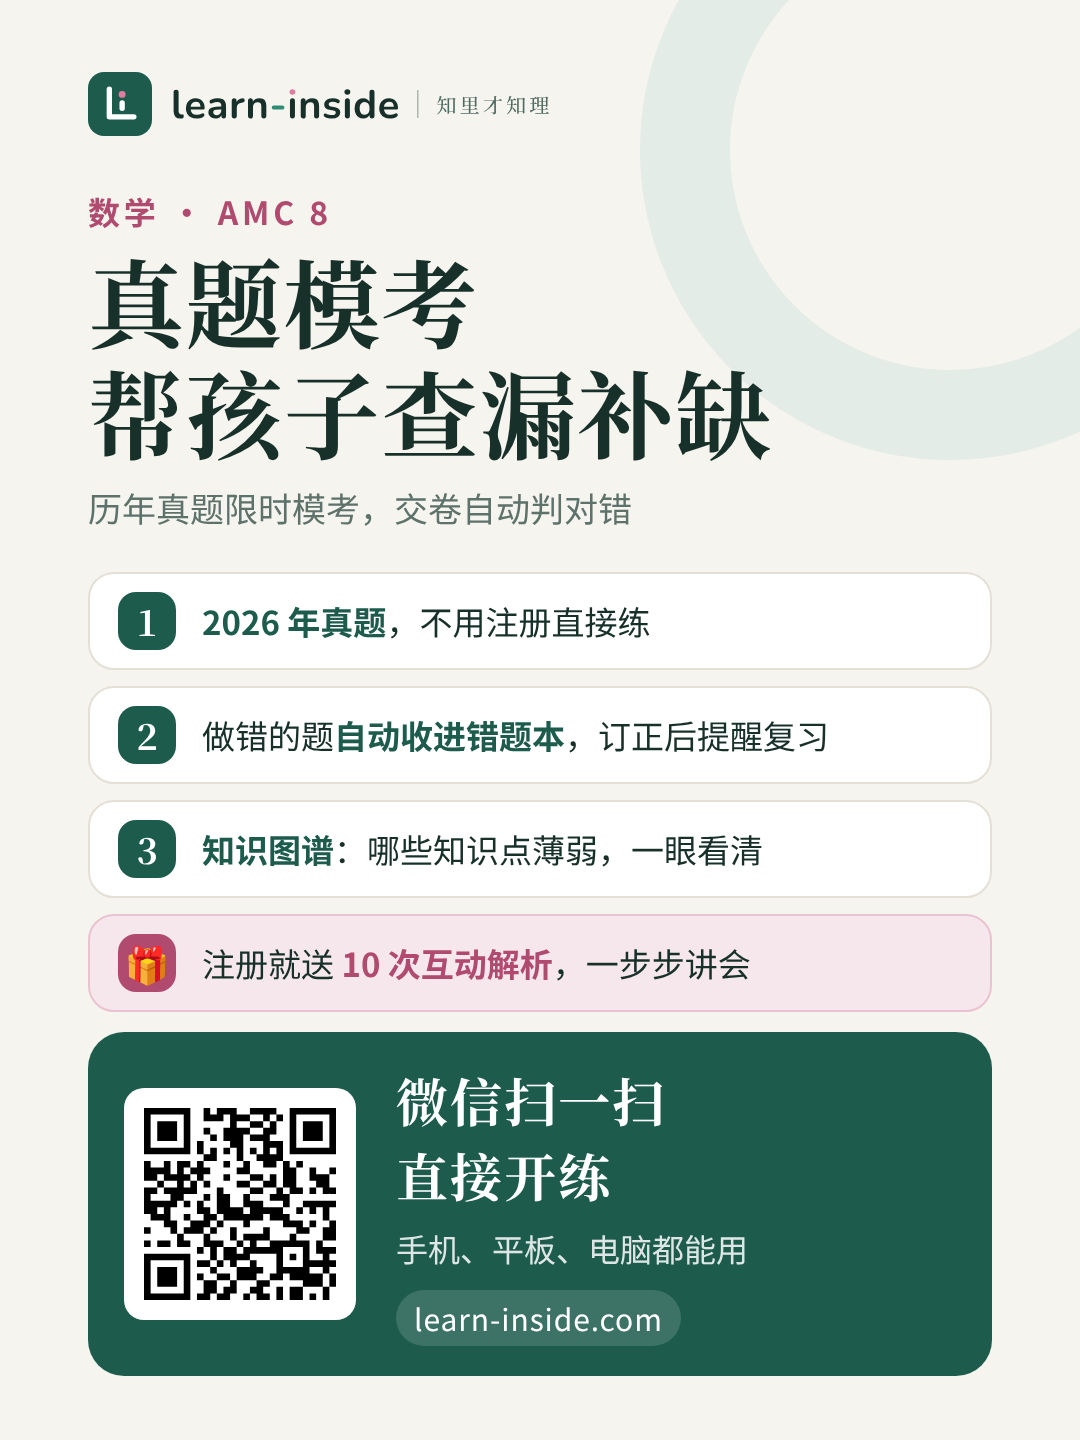
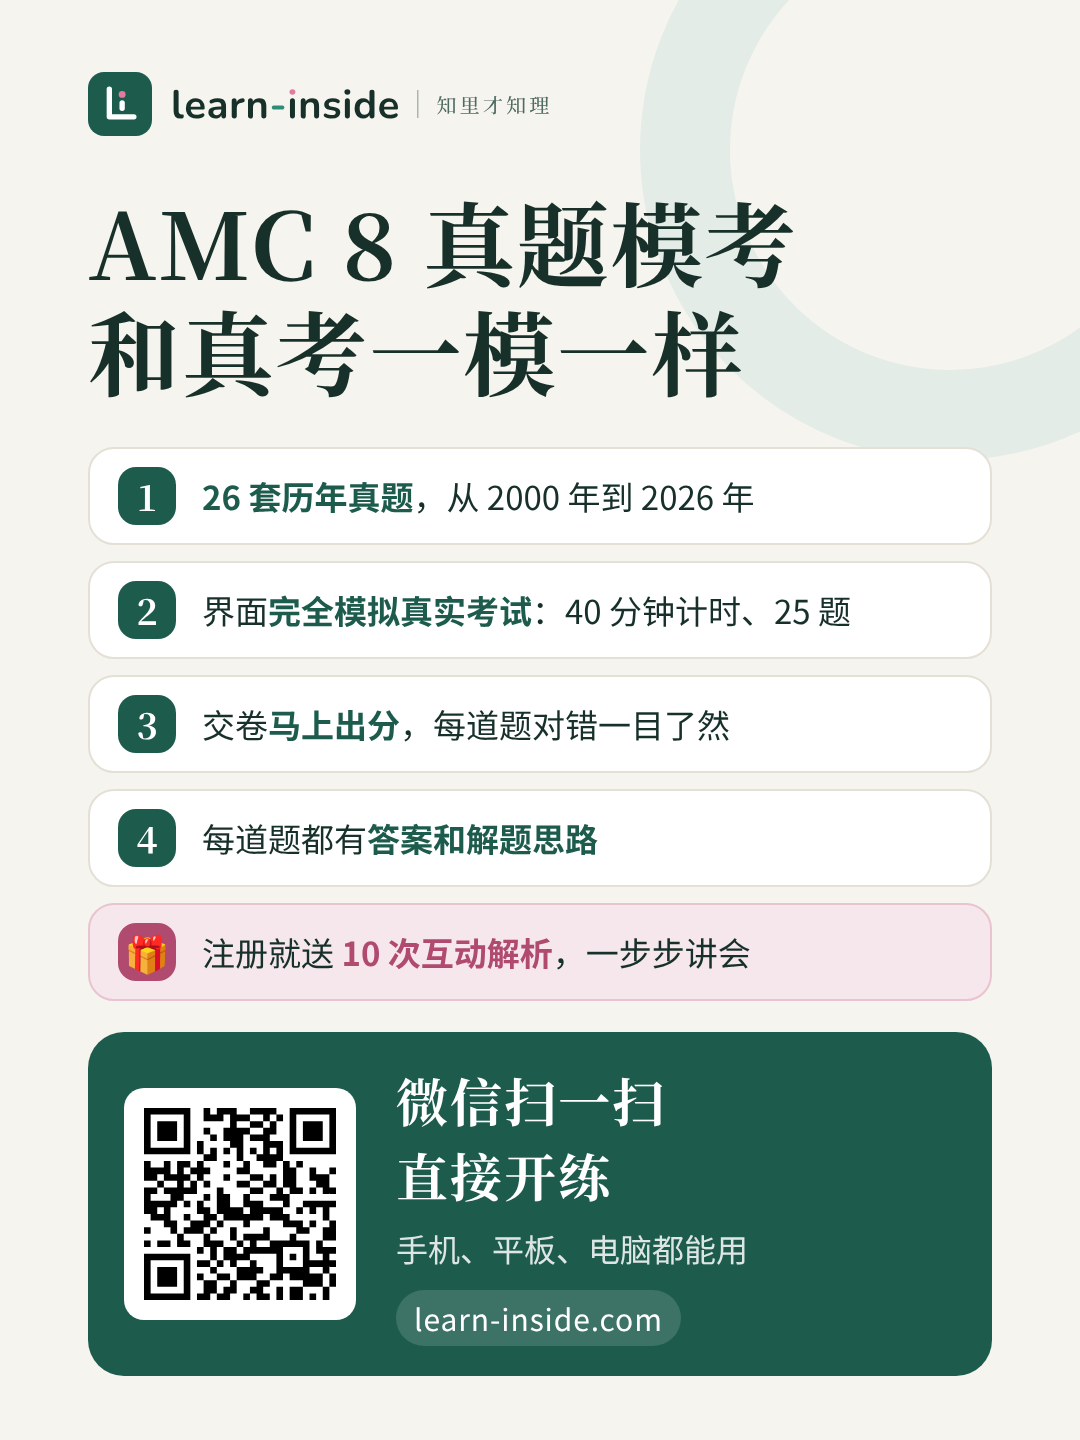
宣传图改文案：26 套历年真题、完全模拟真实考试、交卷马上出分、答案和解题思路
Claude-Session: https://claude.ai/code/session_01Y4gywDNRHQvSi6twQxnfma

diff --git a/assets/poster/share-poster.html b/assets/poster/share-poster.html
@@ -6,9 +6,9 @@ body{width:1080px;height:1440px;background:#F6F4EE;font-family:"Noto Sans CJK SC
 .wrap{position:relative;padding:72px 88px 0}
 .logo svg{height:64px;width:auto;display:block}
 .k{margin-top:52px;font-size:32px;letter-spacing:.12em;color:#B04A6F;font-weight:700}
-h1{font-family:ZS;font-weight:700;font-size:96px;line-height:1.16;margin-top:10px;letter-spacing:.02em}
+h1{font-family:ZS;font-weight:700;font-size:92px;line-height:1.18;margin-top:50px;letter-spacing:.02em}
 .sub{font-size:34px;color:#5E726C;margin-top:16px}
-ul{list-style:none;padding:0;margin-top:40px;display:grid;gap:16px}
+ul{list-style:none;padding:0;margin-top:44px;display:grid;gap:16px}
 li{display:flex;align-items:center;gap:26px;background:#fff;border:2px solid #E4E0D6;border-radius:26px;padding:18px 28px;font-size:33px;line-height:1.4}
 li i{flex:none;width:58px;height:58px;border-radius:18px;background:#1D5C4D;color:#fff;font-style:normal;font-family:ZS;font-weight:700;font-size:36px;display:grid;place-items:center}
 li b{color:#1D5C4D}
@@ -22,13 +22,12 @@ li.gift{background:#F6E7EC;border-color:#E9C3D1} li.gift i{background:#B04A6F} l
 </style></head><body><div class="bg"></div><div class="wrap">
 <div class="logo"><svg xmlns="http://www.w3.org/2000/svg" viewBox="0 0 461.3 64"><svg x="0.0" y="0.0" width="64.0" height="64.0" viewBox="0 0 120 120"><rect width="120" height="120" rx="30" fill="#1D5C4D"/><path d="M40 32V84H86" fill="none" stroke="#fff" stroke-width="10" stroke-linecap="round" stroke-linejoin="round"/><path d="M64 58V68" stroke="#fff" stroke-width="10" stroke-linecap="round"/><circle cx="64" cy="42" r="6.5" fill="#E07C9F"/></svg><svg x="83.0" y="17.0" width="228.0" height="30.0" viewBox="0 -73 570 75"><path d="M23.2 1Q14.9 1 10.7 -3.75Q6.5 -8.5 6.5 -17.7V-65Q6.5 -68.1 8.1 -69.7Q9.7 -71.3 12.7 -71.3Q15.7 -71.3 17.35 -69.7Q19 -68.1 19 -65V-18.3Q19 -13.7 20.95 -11.5Q22.9 -9.3 26.5 -9.3Q27.3 -9.3 28 -9.35Q28.7 -9.4 29.4 -9.5Q30.8 -9.7 31.3 -8.75Q31.8 -7.8 31.8 -4.9Q31.8 -2.4 30.8 -1Q29.8 0.4 27.5 0.7Q26.5 0.8 25.4 0.9Q24.3 1 23.2 1Z M64 1Q55.7 1 49.7 -2.1Q43.7 -5.2 40.45 -10.9Q37.2 -16.6 37.2 -24.4Q37.2 -32 40.35 -37.7Q43.5 -43.4 49.05 -46.65Q54.6 -49.9 61.7 -49.9Q66.9 -49.9 71.05 -48.2Q75.2 -46.5 78.15 -43.3Q81.1 -40.1 82.65 -35.55Q84.2 -31 84.2 -25.3Q84.2 -23.5 82.95 -22.55Q81.7 -21.6 79.4 -21.6H47.3V-28.8H75.4L73.8 -27.3Q73.8 -31.9 72.45 -35Q71.1 -38.1 68.55 -39.75Q66 -41.4 62.2 -41.4Q58 -41.4 55.05 -39.45Q52.1 -37.5 50.55 -33.95Q49 -30.4 49 -25.5V-24.8Q49 -16.6 52.85 -12.55Q56.7 -8.5 64.2 -8.5Q66.8 -8.5 70.05 -9.15Q73.3 -9.8 76.2 -11.4Q78.3 -12.6 79.9 -12.45Q81.5 -12.3 82.45 -11.3Q83.4 -10.3 83.6 -8.85Q83.8 -7.4 83.05 -5.9Q82.3 -4.4 80.5 -3.3Q77 -1.1 72.45 -0.05Q67.9 1 64 1Z M111.7 1Q106.4 1 102.25 -1.05Q98.1 -3.1 95.75 -6.6Q93.4 -10.1 93.4 -14.5Q93.4 -19.9 96.2 -23.05Q99 -26.2 105.3 -27.6Q111.6 -29 122.2 -29H127.2V-21.8H122.3Q116.1 -21.8 112.4 -21.2Q108.7 -20.6 107.15 -19.15Q105.6 -17.7 105.6 -15.1Q105.6 -11.8 107.9 -9.7Q110.2 -7.6 114.3 -7.6Q117.6 -7.6 120.15 -9.15Q122.7 -10.7 124.2 -13.4Q125.7 -16.1 125.7 -19.6V-31.1Q125.7 -36.1 123.5 -38.3Q121.3 -40.5 116.1 -40.5Q113.2 -40.5 109.85 -39.8Q106.5 -39.1 102.8 -37.4Q100.9 -36.5 99.45 -36.9Q98 -37.3 97.2 -38.55Q96.4 -39.8 96.4 -41.3Q96.4 -42.8 97.2 -44.25Q98 -45.7 99.9 -46.4Q104.5 -48.3 108.75 -49.1Q113 -49.9 116.5 -49.9Q123.7 -49.9 128.35 -47.7Q133 -45.5 135.3 -41.05Q137.6 -36.6 137.6 -29.6V-5.6Q137.6 -2.5 136.1 -0.85Q134.6 0.8 131.8 0.8Q129 0.8 127.45 -0.85Q125.9 -2.5 125.9 -5.6V-10.4H126.7Q126 -6.9 123.95 -4.35Q121.9 -1.8 118.8 -0.4Q115.7 1 111.7 1Z M158.2 0.8Q155.1 0.8 153.45 -0.85Q151.8 -2.5 151.8 -5.6V-43.4Q151.8 -46.5 153.4 -48.1Q155 -49.7 157.9 -49.7Q160.8 -49.7 162.4 -48.1Q164 -46.5 164 -43.4V-37.1H163Q164.4 -43.1 168.5 -46.2Q172.6 -49.3 179.4 -49.9Q181.5 -50.1 182.75 -48.85Q184 -47.6 184.2 -45Q184.4 -42.5 183.05 -40.95Q181.7 -39.4 179 -39.1L176.8 -38.9Q170.7 -38.3 167.6 -35.15Q164.5 -32 164.5 -26.3V-5.6Q164.5 -2.5 162.9 -0.85Q161.3 0.8 158.2 0.8Z M198.7 0.8Q195.7 0.8 194.1 -0.85Q192.5 -2.5 192.5 -5.6V-43.4Q192.5 -46.5 194.1 -48.1Q195.7 -49.7 198.6 -49.7Q201.5 -49.7 203.1 -48.1Q204.7 -46.5 204.7 -43.4V-36.6L203.6 -39.1Q205.8 -44.4 210.45 -47.15Q215.1 -49.9 221 -49.9Q226.9 -49.9 230.7 -47.7Q234.5 -45.5 236.4 -41.05Q238.3 -36.6 238.3 -29.8V-5.6Q238.3 -2.5 236.7 -0.85Q235.1 0.8 232.1 0.8Q229.1 0.8 227.45 -0.85Q225.8 -2.5 225.8 -5.6V-29.2Q225.8 -34.9 223.65 -37.5Q221.5 -40.1 217 -40.1Q211.5 -40.1 208.25 -36.65Q205 -33.2 205 -27.5V-5.6Q205 0.8 198.7 0.8Z M303.6 0.7Q300.6 0.7 299 -1.1Q297.4 -2.9 297.4 -6.1V-42.8Q297.4 -46.1 299 -47.85Q300.6 -49.6 303.6 -49.6Q306.6 -49.6 308.25 -47.85Q309.9 -46.1 309.9 -42.8V-6.1Q309.9 -2.9 308.3 -1.1Q306.7 0.7 303.6 0.7Z M330.6 0.8Q327.6 0.8 326 -0.85Q324.4 -2.5 324.4 -5.6V-43.4Q324.4 -46.5 326 -48.1Q327.6 -49.7 330.5 -49.7Q333.4 -49.7 335 -48.1Q336.6 -46.5 336.6 -43.4V-36.6L335.5 -39.1Q337.7 -44.4 342.35 -47.15Q347 -49.9 352.9 -49.9Q358.8 -49.9 362.6 -47.7Q366.4 -45.5 368.3 -41.05Q370.2 -36.6 370.2 -29.8V-5.6Q370.2 -2.5 368.6 -0.85Q367 0.8 364 0.8Q361 0.8 359.35 -0.85Q357.7 -2.5 357.7 -5.6V-29.2Q357.7 -34.9 355.55 -37.5Q353.4 -40.1 348.9 -40.1Q343.4 -40.1 340.15 -36.65Q336.9 -33.2 336.9 -27.5V-5.6Q336.9 0.8 330.6 0.8Z M402.3 1Q398 1 393.2 0.1Q388.4 -0.8 384.6 -3Q383 -4 382.35 -5.35Q381.7 -6.7 381.85 -8.05Q382 -9.4 382.85 -10.4Q383.7 -11.4 385.05 -11.7Q386.4 -12 388 -11.2Q392 -9.3 395.5 -8.55Q399 -7.8 402.4 -7.8Q407.2 -7.8 409.55 -9.45Q411.9 -11.1 411.9 -13.8Q411.9 -16.1 410.35 -17.35Q408.8 -18.6 405.7 -19.2L395.7 -21.1Q389.5 -22.3 386.25 -25.65Q383 -29 383 -34.3Q383 -39.1 385.65 -42.6Q388.3 -46.1 393 -48Q397.7 -49.9 403.8 -49.9Q408.2 -49.9 412.05 -48.95Q415.9 -48 419.5 -46Q421 -45.2 421.55 -43.9Q422.1 -42.6 421.8 -41.25Q421.5 -39.9 420.6 -38.85Q419.7 -37.8 418.35 -37.55Q417 -37.3 415.3 -38.1Q412.2 -39.7 409.35 -40.4Q406.5 -41.1 403.9 -41.1Q399 -41.1 396.65 -39.4Q394.3 -37.7 394.3 -34.9Q394.3 -32.8 395.7 -31.4Q397.1 -30 400 -29.5L410 -27.6Q416.5 -26.4 419.85 -23.2Q423.2 -20 423.2 -14.6Q423.2 -7.3 417.5 -3.15Q411.8 1 402.3 1Z M440.9 0.7Q437.9 0.7 436.3 -1.1Q434.7 -2.9 434.7 -6.1V-42.8Q434.7 -46.1 436.3 -47.85Q437.9 -49.6 440.9 -49.6Q443.9 -49.6 445.55 -47.85Q447.2 -46.1 447.2 -42.8V-6.1Q447.2 -2.9 445.6 -1.1Q444 0.7 440.9 0.7Z M480.5 1Q474.1 1 469.25 -2.1Q464.4 -5.2 461.7 -10.95Q459 -16.7 459 -24.5Q459 -32.4 461.7 -38.05Q464.4 -43.7 469.25 -46.8Q474.1 -49.9 480.5 -49.9Q486.6 -49.9 491.15 -46.9Q495.7 -43.9 497.3 -39H496.2V-65Q496.2 -68.1 497.8 -69.7Q499.4 -71.3 502.4 -71.3Q505.4 -71.3 507.05 -69.7Q508.7 -68.1 508.7 -65V-5.6Q508.7 -2.5 507.1 -0.85Q505.5 0.8 502.5 0.8Q499.5 0.8 497.9 -0.85Q496.3 -2.5 496.3 -5.6V-13.4L497.4 -10.4Q495.9 -5.2 491.3 -2.1Q486.7 1 480.5 1ZM484 -8.5Q487.7 -8.5 490.5 -10.3Q493.3 -12.1 494.85 -15.65Q496.4 -19.2 496.4 -24.5Q496.4 -32.5 493 -36.45Q489.6 -40.4 484 -40.4Q480.3 -40.4 477.5 -38.65Q474.7 -36.9 473.15 -33.35Q471.6 -29.8 471.6 -24.5Q471.6 -16.6 475 -12.55Q478.4 -8.5 484 -8.5Z M547.3 1Q539 1 533 -2.1Q527 -5.2 523.75 -10.9Q520.5 -16.6 520.5 -24.4Q520.5 -32 523.65 -37.7Q526.8 -43.4 532.35 -46.65Q537.9 -49.9 545 -49.9Q550.2 -49.9 554.35 -48.2Q558.5 -46.5 561.45 -43.3Q564.4 -40.1 565.95 -35.55Q567.5 -31 567.5 -25.3Q567.5 -23.5 566.25 -22.55Q565 -21.6 562.7 -21.6H530.6V-28.8H558.7L557.1 -27.3Q557.1 -31.9 555.75 -35Q554.4 -38.1 551.85 -39.75Q549.3 -41.4 545.5 -41.4Q541.3 -41.4 538.35 -39.45Q535.4 -37.5 533.85 -33.95Q532.3 -30.4 532.3 -25.5V-24.8Q532.3 -16.6 536.15 -12.55Q540 -8.5 547.5 -8.5Q550.1 -8.5 553.35 -9.15Q556.6 -9.8 559.5 -11.4Q561.6 -12.6 563.2 -12.45Q564.8 -12.3 565.75 -11.3Q566.7 -10.3 566.9 -8.85Q567.1 -7.4 566.35 -5.9Q565.6 -4.4 563.8 -3.3Q560.3 -1.1 555.75 -0.05Q551.2 1 547.3 1Z M440.9 -58.9Q437.4 -58.9 435.45 -60.65Q433.5 -62.4 433.5 -65.5Q433.5 -68.7 435.45 -70.4Q437.4 -72.1 440.9 -72.1Q444.5 -72.1 446.4 -70.4Q448.3 -68.7 448.3 -65.5Q448.3 -62.4 446.4 -60.65Q444.5 -58.9 440.9 -58.9Z" fill="#18302A"/><path d="M257.1 -21.8Q254.9 -21.8 253.45 -23.25Q252 -24.7 252 -26.8Q252 -29 253.45 -30.4Q254.9 -31.8 257.1 -31.8H278.4Q280.5 -31.8 281.95 -30.4Q283.4 -29 283.4 -26.8Q283.4 -24.7 281.95 -23.25Q280.5 -21.8 278.4 -21.8Z" fill="#2E8B74"/><path d="M303.6 -58.9Q300.1 -58.9 298.15 -60.65Q296.2 -62.4 296.2 -65.5Q296.2 -68.7 298.15 -70.4Q300.1 -72.1 303.6 -72.1Q307.2 -72.1 309.1 -70.4Q311 -68.7 311 -65.5Q311 -62.4 309.1 -60.65Q307.2 -58.9 303.6 -58.9Z" fill="#E07C9F"/></svg><rect x="329.0" y="18.0" width="1.5" height="28" fill="#4E6A62" opacity=".45"/><svg x="348.5" y="23.2" width="112.8" height="20.0" viewBox="0 -88.0 564.0 100.0"><path d="M15.5 -66.2H36.7L41.8 -72.4Q41.8 -72.4 43.3 -71.25Q44.8 -70.1 47 -68.35Q49.2 -66.6 51 -64.9Q50.8 -63.3 48.4 -63.3H13.7ZM4.1 -41.5H39.7L44.6 -47.9Q44.6 -47.9 45.55 -47.15Q46.5 -46.4 47.95 -45.25Q49.4 -44.1 50.95 -42.75Q52.5 -41.4 53.8 -40.1Q53.4 -38.5 51.1 -38.5H4.9ZM24.7 -66.2H32.5V-46.8Q32.5 -41.6 31.95 -35.8Q31.4 -30 29.85 -24.05Q28.3 -18.1 25.3 -12.4Q22.3 -6.7 17.3 -1.5Q12.3 3.7 4.8 8.1L3.6 6.8Q10.5 0.7 14.7 -5.9Q18.9 -12.5 21.05 -19.4Q23.2 -26.3 23.95 -33.25Q24.7 -40.2 24.7 -46.7ZM16.3 -83.9 28.3 -80.8Q28 -79.8 27.1 -79.2Q26.2 -78.6 24.6 -78.6Q21.4 -68.7 16.5 -60.6Q11.6 -52.5 5.3 -47L3.9 -47.9Q6.7 -52.3 9.1 -58.1Q11.5 -63.9 13.4 -70.5Q15.3 -77.1 16.3 -83.9ZM28.8 -28.2Q35.8 -25.2 40.15 -21.9Q44.5 -18.6 46.6 -15.4Q48.7 -12.2 49.15 -9.6Q49.6 -7 48.75 -5.35Q47.9 -3.7 46.15 -3.45Q44.4 -3.2 42.3 -4.7Q41.4 -8.4 38.95 -12.5Q36.5 -16.6 33.5 -20.5Q30.5 -24.4 27.7 -27.4ZM59.2 -7.7H87.8V-4.8H59.2ZM83.5 -70.9H82.5L86.8 -75.8L95.8 -68.6Q95.3 -68 94.2 -67.45Q93.1 -66.9 91.6 -66.6V0.6Q91.5 1 90.4 1.65Q89.3 2.3 87.75 2.8Q86.2 3.3 84.7 3.3H83.5ZM55.2 -70.9V-74.8L63.6 -70.9H88.1V-68H63.1V1.9Q63.1 2.3 62.25 3.05Q61.4 3.8 59.9 4.3Q58.4 4.8 56.5 4.8H55.2Z M119.9 1.4H196L201.7 -5.7Q201.7 -5.7 202.75 -4.9Q203.8 -4.1 205.5 -2.8Q207.2 -1.5 208.95 -0.05Q210.7 1.4 212.3 2.8Q211.9 4.3 209.4 4.3H120.8ZM128.8 -19.6H188.9L194.4 -26.6Q194.4 -26.6 195.45 -25.8Q196.5 -25 198.1 -23.75Q199.7 -22.5 201.4 -21.05Q203.1 -19.6 204.6 -18.3Q204.5 -17.5 203.75 -17.1Q203 -16.7 201.9 -16.7H129.6ZM191.7 -76.9H190.7L195 -81.7L204.2 -74.6Q203.7 -74 202.6 -73.45Q201.5 -72.9 200 -72.6V-32.6Q200 -32.3 198.8 -31.7Q197.6 -31.1 196.05 -30.6Q194.5 -30.1 193 -30.1H191.7ZM132 -76.9V-80.8L140.9 -76.9H195.3V-74.1H140.2V-31.2Q140.2 -30.8 139.2 -30.1Q138.2 -29.4 136.65 -28.9Q135.1 -28.4 133.3 -28.4H132ZM134.9 -57.7H195.3V-54.8H134.9ZM134.9 -38.3H195.3V-35.5H134.9ZM161.6 -76.7H170V3H161.6Z M294 -60.8Q288.8 -49.1 280.3 -38.3Q271.8 -27.5 260.7 -18.5Q249.6 -9.5 236.2 -2.9L235.1 -4.3Q243.4 -9.6 250.9 -16.4Q258.4 -23.2 264.75 -30.85Q271.1 -38.5 276.1 -46.55Q281.1 -54.6 284.4 -62.4H294ZM300.8 -82.7Q300.7 -81.7 299.85 -80.95Q299 -80.2 297.2 -80V-3.1Q297.2 0.1 296.35 2.45Q295.5 4.8 292.75 6.3Q290 7.8 284.2 8.3Q283.9 6.3 283.35 4.75Q282.8 3.2 281.6 2.2Q280.3 1.1 278.1 0.3Q275.9 -0.5 271.9 -1V-2.6Q271.9 -2.6 273.75 -2.45Q275.6 -2.3 278.1 -2.1Q280.6 -1.9 282.9 -1.8Q285.2 -1.7 286 -1.7Q287.5 -1.7 288.05 -2.2Q288.6 -2.7 288.6 -3.8V-84ZM318.1 -70.2Q318.1 -70.2 319.05 -69.35Q320 -68.5 321.6 -67.15Q323.2 -65.8 324.85 -64.3Q326.5 -62.8 327.8 -61.4Q327.7 -60.6 326.95 -60.2Q326.2 -59.8 325.1 -59.8H237.3L236.5 -62.7H312.6Z M363.5 -66.2H384.7L389.8 -72.4Q389.8 -72.4 391.3 -71.25Q392.8 -70.1 395 -68.35Q397.2 -66.6 399 -64.9Q398.8 -63.3 396.4 -63.3H361.7ZM352.1 -41.5H387.7L392.6 -47.9Q392.6 -47.9 393.55 -47.15Q394.5 -46.4 395.95 -45.25Q397.4 -44.1 398.95 -42.75Q400.5 -41.4 401.8 -40.1Q401.4 -38.5 399.1 -38.5H352.9ZM372.7 -66.2H380.5V-46.8Q380.5 -41.6 379.95 -35.8Q379.4 -30 377.85 -24.05Q376.3 -18.1 373.3 -12.4Q370.3 -6.7 365.3 -1.5Q360.3 3.7 352.8 8.1L351.6 6.8Q358.5 0.7 362.7 -5.9Q366.9 -12.5 369.05 -19.4Q371.2 -26.3 371.95 -33.25Q372.7 -40.2 372.7 -46.7ZM364.3 -83.9 376.3 -80.8Q376 -79.8 375.1 -79.2Q374.2 -78.6 372.6 -78.6Q369.4 -68.7 364.5 -60.6Q359.6 -52.5 353.3 -47L351.9 -47.9Q354.7 -52.3 357.1 -58.1Q359.5 -63.9 361.4 -70.5Q363.3 -77.1 364.3 -83.9ZM376.8 -28.2Q383.8 -25.2 388.15 -21.9Q392.5 -18.6 394.6 -15.4Q396.7 -12.2 397.15 -9.6Q397.6 -7 396.75 -5.35Q395.9 -3.7 394.15 -3.45Q392.4 -3.2 390.3 -4.7Q389.4 -8.4 386.95 -12.5Q384.5 -16.6 381.5 -20.5Q378.5 -24.4 375.7 -27.4ZM407.2 -7.7H435.8V-4.8H407.2ZM431.5 -70.9H430.5L434.8 -75.8L443.8 -68.6Q443.3 -68 442.2 -67.45Q441.1 -66.9 439.6 -66.6V0.6Q439.5 1 438.4 1.65Q437.3 2.3 435.75 2.8Q434.2 3.3 432.7 3.3H431.5ZM403.2 -70.9V-74.8L411.6 -70.9H436.1V-68H411.1V1.9Q411.1 2.3 410.25 3.05Q409.4 3.8 407.9 4.3Q406.4 4.8 404.5 4.8H403.2Z M503.1 -18.9H544L549 -25.5Q549 -25.5 549.9 -24.75Q550.8 -24 552.2 -22.8Q553.6 -21.6 555.15 -20.25Q556.7 -18.9 558 -17.6Q557.7 -16.1 555.4 -16.1H503.9ZM493.5 1.6H547.6L552.8 -5.4Q552.8 -5.4 553.8 -4.6Q554.8 -3.8 556.3 -2.55Q557.8 -1.3 559.4 0.15Q561 1.6 562.3 3Q562.2 3.7 561.5 4.1Q560.8 4.5 559.7 4.5H494.3ZM508.2 -57.1H551.2V-54.2H508.2ZM508.2 -37.2H551.2V-34.4H508.2ZM524.9 -76.8H532.8V3.4H524.9ZM547.1 -76.8H546.1L550.3 -81.4L559.3 -74.5Q558.8 -73.9 557.65 -73.35Q556.5 -72.8 555 -72.4V-32.7Q555 -32.4 553.9 -31.75Q552.8 -31.1 551.3 -30.55Q549.8 -30 548.4 -30H547.1ZM503.6 -76.8V-80.5L512 -76.8H551.4V-73.9H511.4V-30.7Q511.4 -30.3 510.45 -29.65Q509.5 -29 508.05 -28.5Q506.6 -28 504.8 -28H503.6ZM467.8 -73.7H489.5L494.4 -80.2Q494.4 -80.2 495.4 -79.45Q496.4 -78.7 497.8 -77.5Q499.2 -76.3 500.8 -74.95Q502.4 -73.6 503.6 -72.3Q503.3 -70.7 501 -70.7H468.6ZM468.1 -46.4H490.1L494.4 -52.7Q494.4 -52.7 495.75 -51.45Q497.1 -50.2 498.9 -48.45Q500.7 -46.7 502.1 -45.1Q501.7 -43.5 499.5 -43.5H468.9ZM466.6 -11.3Q469.6 -12 475.25 -13.75Q480.9 -15.5 488.05 -17.85Q495.2 -20.2 502.7 -22.8L503.2 -21.4Q497.8 -18.4 490.25 -13.95Q482.7 -9.5 472.6 -4.2Q472.1 -2.3 470.4 -1.6ZM480.1 -73.7H488V-15L480.1 -12.3Z" fill="#4E6A62"/></svg></svg>
 </div>
-<div class="k">数学 · AMC 8</div>
-<h1>真题模考<br>帮孩子查漏补缺</h1>
-<p class="sub">历年真题限时模考，交卷自动判对错</p>
+<h1>AMC 8 真题模考<br>和真考一模一样</h1>
 <ul>
-<li><i>1</i><span><b>2026 年真题</b>，不用注册直接练</span></li>
-<li><i>2</i><span>做错的题<b>自动收进错题本</b>，订正后提醒复习</span></li>
-<li><i>3</i><span><b>知识图谱</b>：哪些知识点薄弱，一眼看清</span></li>
+<li><i>1</i><span><b>26 套历年真题</b>，从 2000 年到 2026 年</span></li>
+<li><i>2</i><span>界面<b>完全模拟真实考试</b>：40 分钟计时、25 题</span></li>
+<li><i>3</i><span>交卷<b>马上出分</b>，每道题对错一目了然</span></li>
+<li><i>4</i><span>每道题都有<b>答案和解题思路</b></span></li>
 <li class="gift"><i>🎁</i><span>注册就送 <b>10 次互动解析</b>，一步步讲会</span></li>
 </ul></div>
 <div class="foot"><div class="qr"><svg width="29mm" height="29mm" version="1.1" viewBox="0 0 29 29" xmlns="http://www.w3.org/2000/svg"><path d="M0,0H1V1H0zM1,0H2V1H1zM2,0H3V1H2zM3,0H4V1H3zM4,0H5V1H4zM5,0H6V1H5zM6,0H7V1H6zM9,0H10V1H9zM11,0H12V1H11zM12,0H13V1H12zM13,0H14V1H13zM16,0H17V1H16zM17,0H18V1H17zM18,0H19V1H18zM19,0H20V1H19zM22,0H23V1H22zM23,0H24V1H23zM24,0H25V1H24zM25,0H26V1H25zM26,0H27V1H26zM27,0H28V1H27zM28,0H29V1H28zM0,1H1V2H0zM6,1H7V2H6zM9,1H10V2H9zM10,1H11V2H10zM11,1H12V2H11zM13,1H14V2H13zM14,1H15V2H14zM15,1H16V2H15zM18,1H19V2H18zM20,1H21V2H20zM22,1H23V2H22zM28,1H29V2H28zM0,2H1V3H0zM2,2H3V3H2zM3,2H4V3H3zM4,2H5V3H4zM6,2H7V3H6zM13,2H14V3H13zM16,2H17V3H16zM17,2H18V3H17zM19,2H20V3H19zM22,2H23V3H22zM24,2H25V3H24zM25,2H26V3H25zM26,2H27V3H26zM28,2H29V3H28zM0,3H1V4H0zM2,3H3V4H2zM3,3H4V4H3zM4,3H5V4H4zM6,3H7V4H6zM9,3H10V4H9zM12,3H13V4H12zM13,3H14V4H13zM14,3H15V4H14zM15,3H16V4H15zM18,3H19V4H18zM19,3H20V4H19zM22,3H23V4H22zM24,3H25V4H24zM25,3H26V4H25zM26,3H27V4H26zM28,3H29V4H28zM0,4H1V5H0zM2,4H3V5H2zM3,4H4V5H3zM4,4H5V5H4zM6,4H7V5H6zM10,4H11V5H10zM12,4H13V5H12zM13,4H14V5H13zM14,4H15V5H14zM16,4H17V5H16zM17,4H18V5H17zM18,4H19V5H18zM22,4H23V5H22zM24,4H25V5H24zM25,4H26V5H25zM26,4H27V5H26zM28,4H29V5H28zM0,5H1V6H0zM6,5H7V6H6zM8,5H9V6H8zM13,5H14V6H13zM14,5H15V6H14zM18,5H19V6H18zM19,5H20V6H19zM20,5H21V6H20zM22,5H23V6H22zM28,5H29V6H28zM0,6H1V7H0zM1,6H2V7H1zM2,6H3V7H2zM3,6H4V7H3zM4,6H5V7H4zM5,6H6V7H5zM6,6H7V7H6zM8,6H9V7H8zM10,6H11V7H10zM12,6H13V7H12zM14,6H15V7H14zM16,6H17V7H16zM18,6H19V7H18zM20,6H21V7H20zM22,6H23V7H22zM23,6H24V7H23zM24,6H25V7H24zM25,6H26V7H25zM26,6H27V7H26zM27,6H28V7H27zM28,6H29V7H28zM9,7H10V8H9zM10,7H11V8H10zM14,7H15V8H14zM17,7H18V8H17zM18,7H19V8H18zM19,7H20V8H19zM20,7H21V8H20zM0,8H1V9H0zM3,8H4V9H3zM5,8H6V9H5zM6,8H7V9H6zM8,8H9V9H8zM12,8H13V9H12zM15,8H16V9H15zM18,8H19V9H18zM19,8H20V9H19zM21,8H22V9H21zM23,8H24V9H23zM0,9H1V10H0zM1,9H2V10H1zM2,9H3V10H2zM3,9H4V10H3zM5,9H6V10H5zM7,9H8V10H7zM8,9H9V10H8zM9,9H10V10H9zM14,9H15V10H14zM15,9H16V10H15zM21,9H22V10H21zM22,9H23V10H22zM25,9H26V10H25zM28,9H29V10H28zM0,10H1V11H0zM1,10H2V11H1zM3,10H4V11H3zM4,10H5V11H4zM5,10H6V11H5zM6,10H7V11H6zM8,10H9V11H8zM12,10H13V11H12zM16,10H17V11H16zM17,10H18V11H17zM19,10H20V11H19zM21,10H22V11H21zM22,10H23V11H22zM25,10H26V11H25zM26,10H27V11H26zM27,10H28V11H27zM2,11H3V12H2zM5,11H6V12H5zM7,11H8V12H7zM9,11H10V12H9zM14,11H15V12H14zM15,11H16V12H15zM18,11H19V12H18zM19,11H20V12H19zM21,11H22V12H21zM22,11H23V12H22zM26,11H27V12H26zM27,11H28V12H27zM0,12H1V13H0zM1,12H2V13H1zM3,12H4V13H3zM4,12H5V13H4zM5,12H6V13H5zM6,12H7V13H6zM7,12H8V13H7zM11,12H12V13H11zM16,12H17V13H16zM17,12H18V13H17zM20,12H21V13H20zM22,12H23V13H22zM23,12H24V13H23zM25,12H26V13H25zM27,12H28V13H27zM28,12H29V13H28zM0,13H1V14H0zM4,13H5V14H4zM5,13H6V14H5zM9,13H10V14H9zM11,13H12V14H11zM12,13H13V14H12zM15,13H16V14H15zM19,13H20V14H19zM20,13H21V14H20zM21,13H22V14H21zM0,14H1V15H0zM1,14H2V15H1zM2,14H3V15H2zM3,14H4V15H3zM4,14H5V15H4zM6,14H7V15H6zM8,14H9V15H8zM11,14H12V15H11zM12,14H13V15H12zM15,14H16V15H15zM16,14H17V15H16zM17,14H18V15H17zM21,14H22V15H21zM24,14H25V15H24zM25,14H26V15H25zM26,14H27V15H26zM27,14H28V15H27zM28,14H29V15H28zM0,15H1V16H0zM1,15H2V16H1zM3,15H4V16H3zM8,15H9V16H8zM9,15H10V16H9zM11,15H12V16H11zM12,15H13V16H12zM13,15H14V16H13zM14,15H15V16H14zM16,15H17V16H16zM17,15H18V16H17zM18,15H19V16H18zM19,15H20V16H19zM20,15H21V16H20zM23,15H24V16H23zM25,15H26V16H25zM27,15H28V16H27zM1,16H2V17H1zM2,16H3V17H2zM3,16H4V17H3zM6,16H7V17H6zM9,16H10V17H9zM10,16H11V17H10zM12,16H13V17H12zM13,16H14V17H13zM14,16H15V17H14zM15,16H16V17H15zM16,16H17V17H16zM17,16H18V17H17zM19,16H20V17H19zM20,16H21V17H20zM21,16H22V17H21zM27,16H28V17H27zM3,17H4V18H3zM4,17H5V18H4zM7,17H8V18H7zM8,17H9V18H8zM9,17H10V18H9zM11,17H12V18H11zM15,17H16V18H15zM21,17H22V18H21zM22,17H23V18H22zM23,17H24V18H23zM25,17H26V18H25zM28,17H29V18H28zM0,18H1V19H0zM4,18H5V19H4zM6,18H7V19H6zM7,18H8V19H7zM8,18H9V19H8zM10,18H11V19H10zM13,18H14V19H13zM18,18H19V19H18zM23,18H24V19H23zM24,18H25V19H24zM27,18H28V19H27zM28,18H29V19H28zM5,19H6V20H5zM9,19H10V20H9zM13,19H14V20H13zM15,19H16V20H15zM16,19H17V20H16zM17,19H18V20H17zM18,19H19V20H18zM22,19H23V20H22zM27,19H28V20H27zM28,19H29V20H28zM0,20H1V21H0zM2,20H3V21H2zM3,20H4V21H3zM5,20H6V21H5zM6,20H7V21H6zM9,20H10V21H9zM10,20H11V21H10zM11,20H12V21H11zM14,20H15V21H14zM16,20H17V21H16zM19,20H20V21H19zM20,20H21V21H20zM21,20H22V21H21zM22,20H23V21H22zM23,20H24V21H23zM24,20H25V21H24zM26,20H27V21H26zM8,21H9V22H8zM10,21H11V22H10zM12,21H13V22H12zM13,21H14V22H13zM15,21H16V22H15zM16,21H17V22H16zM17,21H18V22H17zM18,21H19V22H18zM19,21H20V22H19zM20,21H21V22H20zM24,21H25V22H24zM26,21H27V22H26zM27,21H28V22H27zM28,21H29V22H28zM0,22H1V23H0zM1,22H2V23H1zM2,22H3V23H2zM3,22H4V23H3zM4,22H5V23H4zM5,22H6V23H5zM6,22H7V23H6zM10,22H11V23H10zM12,22H13V23H12zM13,22H14V23H13zM14,22H15V23H14zM15,22H16V23H15zM20,22H21V23H20zM22,22H23V23H22zM24,22H25V23H24zM27,22H28V23H27zM0,23H1V24H0zM6,23H7V24H6zM8,23H9V24H8zM9,23H10V24H9zM11,23H12V24H11zM13,23H14V24H13zM16,23H17V24H16zM20,23H21V24H20zM24,23H25V24H24zM25,23H26V24H25zM26,23H27V24H26zM27,23H28V24H27zM28,23H29V24H28zM0,24H1V25H0zM2,24H3V25H2zM3,24H4V25H3zM4,24H5V25H4zM6,24H7V25H6zM10,24H11V25H10zM14,24H15V25H14zM15,24H16V25H15zM16,24H17V25H16zM17,24H18V25H17zM20,24H21V25H20zM21,24H22V25H21zM22,24H23V25H22zM23,24H24V25H23zM24,24H25V25H24zM27,24H28V25H27zM0,25H1V26H0zM2,25H3V26H2zM3,25H4V26H3zM4,25H5V26H4zM6,25H7V26H6zM8,25H9V26H8zM11,25H12V26H11zM12,25H13V26H12zM14,25H15V26H14zM15,25H16V26H15zM16,25H17V26H16zM19,25H20V26H19zM20,25H21V26H20zM22,25H23V26H22zM23,25H24V26H23zM24,25H25V26H24zM25,25H26V26H25zM26,25H27V26H26zM28,25H29V26H28zM0,26H1V27H0zM2,26H3V27H2zM3,26H4V27H3zM4,26H5V27H4zM6,26H7V27H6zM9,26H10V27H9zM10,26H11V27H10zM13,26H14V27H13zM17,26H18V27H17zM18,26H19V27H18zM24,26H25V27H24zM25,26H26V27H25zM26,26H27V27H26zM28,26H29V27H28zM0,27H1V28H0zM6,27H7V28H6zM9,27H10V28H9zM10,27H11V28H10zM12,27H13V28H12zM13,27H14V28H13zM16,27H17V28H16zM17,27H18V28H17zM20,27H21V28H20zM22,27H23V28H22zM23,27H24V28H23zM27,27H28V28H27zM0,28H1V29H0zM1,28H2V29H1zM2,28H3V29H2zM3,28H4V29H3zM4,28H5V29H4zM5,28H6V29H5zM6,28H7V29H6zM8,28H9V29H8zM9,28H10V29H9zM11,28H12V29H11zM12,28H13V29H12zM15,28H16V29H15zM17,28H18V29H17zM18,28H19V29H18zM20,28H21V29H20zM22,28H23V29H22zM23,28H24V29H23zM25,28H26V29H25zM27,28H28V29H27z" id="qr-path" fill="#000000" fill-opacity="1" fill-rule="nonzero" stroke="none"/></svg></div><div class="ft"><b>微信扫一扫<br>直接开练</b><span>手机、平板、电脑都能用</span><em>learn-inside.com</em></div></div>
